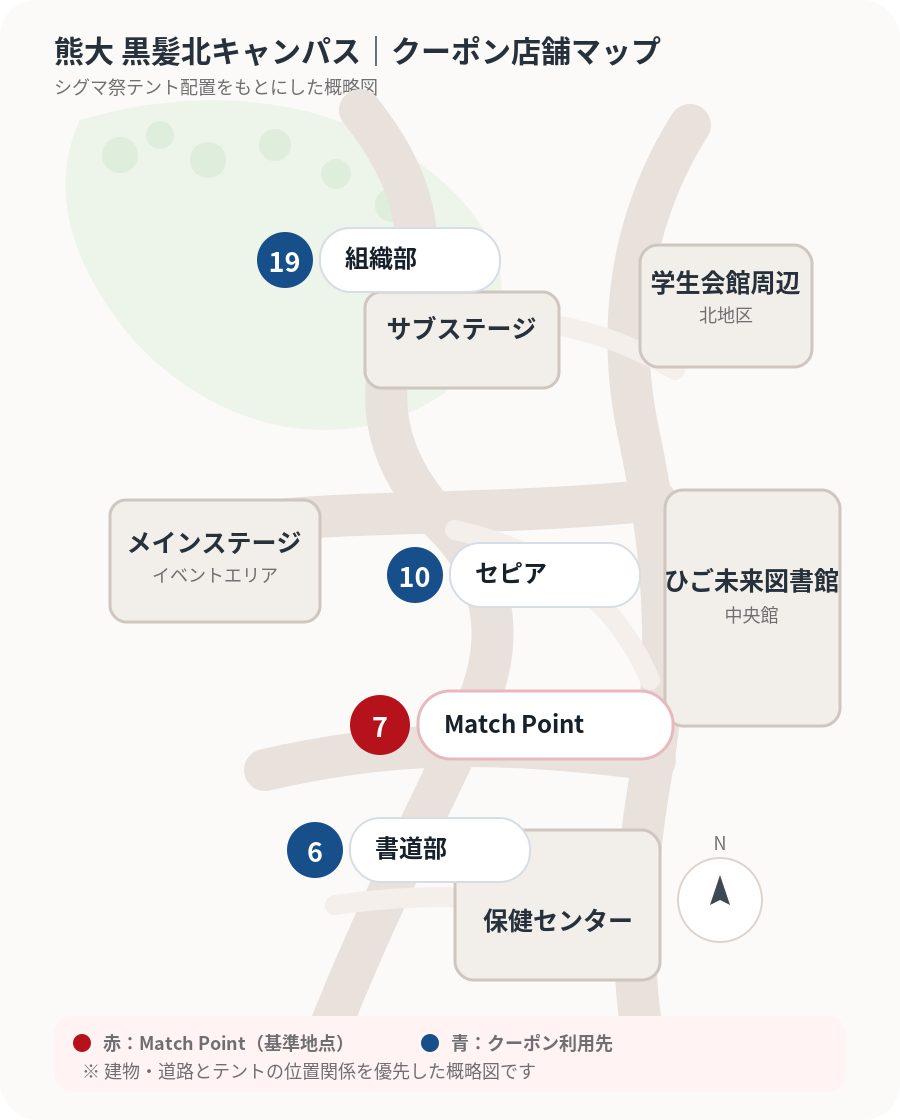
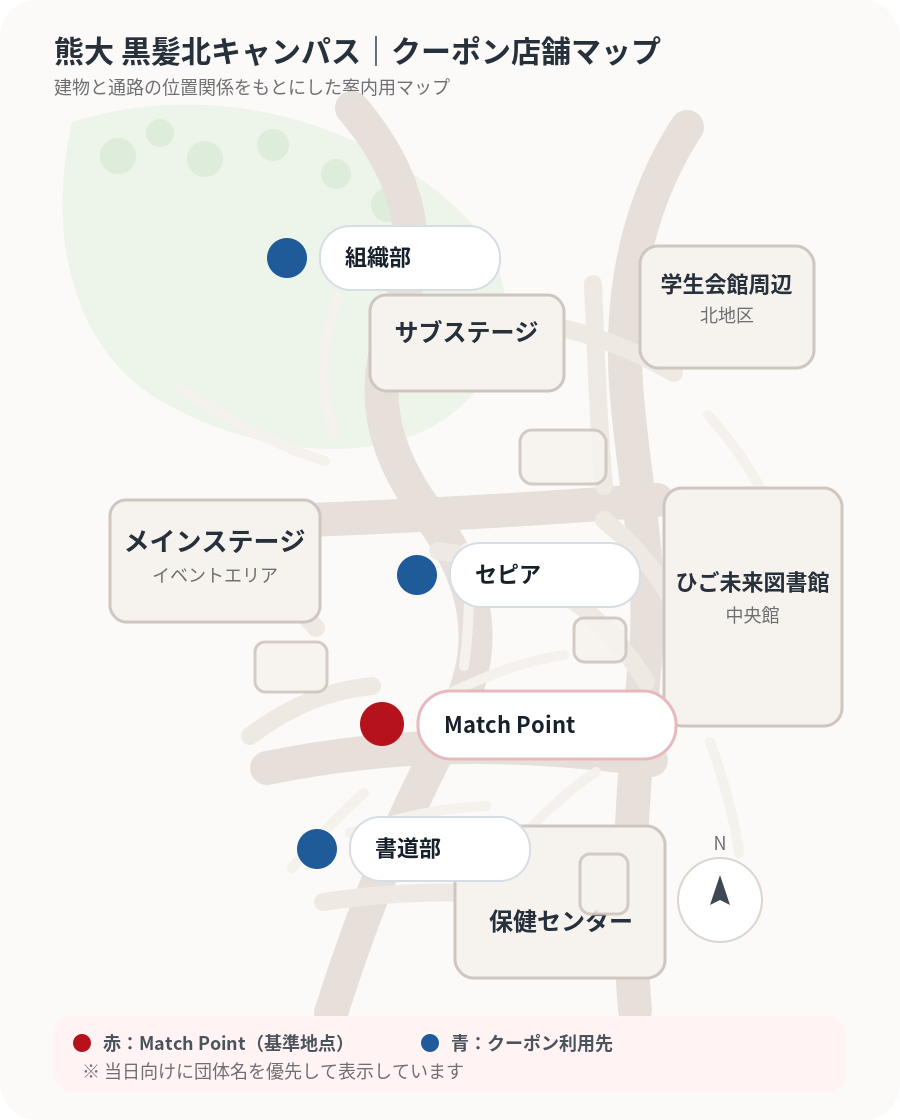
Add files via upload

diff --git a/claim.html b/claim.html
@@ -190,10 +190,10 @@ function buildMapPartners(coupons){
   return out;
 }
 function mapLaunchHtml(){
-  return `<div class="card"><div class="map-launch-title">🗺 クーポン店舗マップ</div><div class="map-launch-text">熊大黒髪北キャンパスの建物配置とシグマ祭テント配置をもとに、クーポン利用先だけを載せた専用マップです。</div><button onclick="openCouponMap()">店舗マップを見る</button></div>`;
+  return `<div class="card"><div class="map-launch-title">🗺 クーポン店舗マップ</div><div class="map-launch-text">熊大黒髪北キャンパスをもとに、クーポン利用先だけを見やすくまとめた案内マップです。</div><button onclick="openCouponMap()">店舗マップを見る</button></div>`;
 }
 function mapModalHtml(){
-  return `<div id="couponMapModal" class="map-modal" onclick="if(event.target===this)closeCouponMap()"><div class="map-sheet"><div class="map-sheet-head"><div><div class="map-sheet-title">クーポン店舗マップ</div><div class="map-sheet-sub">表示しているテント番号は 6・7・10・19 のみです。</div></div><button type="button" class="map-close" onclick="closeCouponMap()">閉じる</button></div><div class="illustrated-map-wrap"><div class="illustrated-map-stage"><img class="illustrated-map" src="./coupon-campus-illustrated.png" alt="熊本大学黒髪北キャンパスのクーポン店舗マップ"><div id="mapFocusRing" class="map-focus-ring" aria-hidden="true"></div></div></div></div></div>`;
+  return `<div id="couponMapModal" class="map-modal" onclick="if(event.target===this)closeCouponMap()"><div class="map-sheet"><div class="map-sheet-head"><div><div class="map-sheet-title">クーポン店舗マップ</div><div class="map-sheet-sub">建物と通路の位置関係をもとにした案内用の絵地図です。</div></div><button type="button" class="map-close" onclick="closeCouponMap()">閉じる</button></div><div class="illustrated-map-wrap"><div class="illustrated-map-stage"><img class="illustrated-map" src="./coupon-campus-illustrated.png" alt="熊本大学黒髪北キャンパスのクーポン店舗マップ"><div id="mapFocusRing" class="map-focus-ring" aria-hidden="true"></div></div></div></div></div>`;
 }
 function openCouponMapByName(encodedName){openCouponMap(decodeURIComponent(encodedName||""));}
 function openCouponMap(activeName=""){
@@ -257,7 +257,7 @@ async function partnerHtml(ticketKind){
             <div class="coupon-partner">発行元：${esc(c.partner_name)}</div>
             <div class="coupon-title">${esc(c.title)}</div>
             ${c.description?`<div class="coupon-description">${esc(c.description)}</div>`:""}
-            ${loc?`<div class="coupon-meta"><span class="coupon-spot">場所：テント ${loc.tent}</span></div><button type="button" class="coupon-map-btn" onclick="openCouponMapByName('${encodeURIComponent(c.partner_name)}')">地図で場所を見る</button>`:""}
+            ${loc?`<button type="button" class="coupon-map-btn" onclick="openCouponMapByName('${encodeURIComponent(c.partner_name)}')">地図で場所を見る</button>`:""}
             <div class="coupon-howto">利用時に${esc(ticketKind)}のQRコードを提携先スタッフへ提示してください。</div>
             ${c.instagram_url?`<a class="coupon-instagram" href="${esc(c.instagram_url)}" target="_blank" rel="noopener">Instagramを見る</a>`:""}
           </article>

diff --git a/ticket.html b/ticket.html
@@ -190,10 +190,10 @@ function buildMapPartners(coupons){
   return out;
 }
 function mapLaunchHtml(){
-  return `<div class="card"><div class="map-launch-title">🗺 クーポン店舗マップ</div><div class="map-launch-text">熊大黒髪北キャンパスの建物配置とシグマ祭テント配置をもとに、クーポン利用先だけを載せた専用マップです。</div><button onclick="openCouponMap()">店舗マップを見る</button></div>`;
+  return `<div class="card"><div class="map-launch-title">🗺 クーポン店舗マップ</div><div class="map-launch-text">熊大黒髪北キャンパスをもとに、クーポン利用先だけを見やすくまとめた案内マップです。</div><button onclick="openCouponMap()">店舗マップを見る</button></div>`;
 }
 function mapModalHtml(){
-  return `<div id="couponMapModal" class="map-modal" onclick="if(event.target===this)closeCouponMap()"><div class="map-sheet"><div class="map-sheet-head"><div><div class="map-sheet-title">クーポン店舗マップ</div><div class="map-sheet-sub">表示しているテント番号は 6・7・10・19 のみです。</div></div><button type="button" class="map-close" onclick="closeCouponMap()">閉じる</button></div><div class="illustrated-map-wrap"><div class="illustrated-map-stage"><img class="illustrated-map" src="./coupon-campus-illustrated.png" alt="熊本大学黒髪北キャンパスのクーポン店舗マップ"><div id="mapFocusRing" class="map-focus-ring" aria-hidden="true"></div></div></div></div></div>`;
+  return `<div id="couponMapModal" class="map-modal" onclick="if(event.target===this)closeCouponMap()"><div class="map-sheet"><div class="map-sheet-head"><div><div class="map-sheet-title">クーポン店舗マップ</div><div class="map-sheet-sub">建物と通路の位置関係をもとにした案内用の絵地図です。</div></div><button type="button" class="map-close" onclick="closeCouponMap()">閉じる</button></div><div class="illustrated-map-wrap"><div class="illustrated-map-stage"><img class="illustrated-map" src="./coupon-campus-illustrated.png" alt="熊本大学黒髪北キャンパスのクーポン店舗マップ"><div id="mapFocusRing" class="map-focus-ring" aria-hidden="true"></div></div></div></div></div>`;
 }
 function openCouponMapByName(encodedName){openCouponMap(decodeURIComponent(encodedName||""));}
 function openCouponMap(activeName=""){
@@ -257,7 +257,7 @@ async function partnerHtml(ticketKind){
             <div class="coupon-partner">発行元：${esc(c.partner_name)}</div>
             <div class="coupon-title">${esc(c.title)}</div>
             ${c.description?`<div class="coupon-description">${esc(c.description)}</div>`:""}
-            ${loc?`<div class="coupon-meta"><span class="coupon-spot">場所：テント ${loc.tent}</span></div><button type="button" class="coupon-map-btn" onclick="openCouponMapByName('${encodeURIComponent(c.partner_name)}')">地図で場所を見る</button>`:""}
+            ${loc?`<button type="button" class="coupon-map-btn" onclick="openCouponMapByName('${encodeURIComponent(c.partner_name)}')">地図で場所を見る</button>`:""}
             <div class="coupon-howto">利用時に${esc(ticketKind)}のQRコードを提携先スタッフへ提示してください。</div>
             ${c.instagram_url?`<a class="coupon-instagram" href="${esc(c.instagram_url)}" target="_blank" rel="noopener">Instagramを見る</a>`:""}
           </article>

diff --git a/sample-ticket.html b/sample-ticket.html
@@ -147,10 +147,10 @@ function buildMapPartners(coupons){
   return out;
 }
 function mapLaunchHtml(){
-  return `<div class="card"><div class="map-launch-title">🗺 クーポン店舗マップ</div><div class="map-launch-text">熊大黒髪北キャンパスの建物配置とシグマ祭テント配置をもとに、クーポン利用先だけを載せた専用マップです。</div><button onclick="openCouponMap()">店舗マップを見る</button></div>`;
+  return `<div class="card"><div class="map-launch-title">🗺 クーポン店舗マップ</div><div class="map-launch-text">熊大黒髪北キャンパスをもとに、クーポン利用先だけを見やすくまとめた案内マップです。</div><button onclick="openCouponMap()">店舗マップを見る</button></div>`;
 }
 function mapModalHtml(){
-  return `<div id="couponMapModal" class="map-modal" onclick="if(event.target===this)closeCouponMap()"><div class="map-sheet"><div class="map-sheet-head"><div><div class="map-sheet-title">クーポン店舗マップ</div><div class="map-sheet-sub">表示しているテント番号は 6・7・10・19 のみです。</div></div><button type="button" class="map-close" onclick="closeCouponMap()">閉じる</button></div><div class="illustrated-map-wrap"><div class="illustrated-map-stage"><img class="illustrated-map" src="./coupon-campus-illustrated.png" alt="熊本大学黒髪北キャンパスのクーポン店舗マップ"><div id="mapFocusRing" class="map-focus-ring" aria-hidden="true"></div></div></div></div></div>`;
+  return `<div id="couponMapModal" class="map-modal" onclick="if(event.target===this)closeCouponMap()"><div class="map-sheet"><div class="map-sheet-head"><div><div class="map-sheet-title">クーポン店舗マップ</div><div class="map-sheet-sub">建物と通路の位置関係をもとにした案内用の絵地図です。</div></div><button type="button" class="map-close" onclick="closeCouponMap()">閉じる</button></div><div class="illustrated-map-wrap"><div class="illustrated-map-stage"><img class="illustrated-map" src="./coupon-campus-illustrated.png" alt="熊本大学黒髪北キャンパスのクーポン店舗マップ"><div id="mapFocusRing" class="map-focus-ring" aria-hidden="true"></div></div></div></div></div>`;
 }
 function openCouponMapByName(encodedName){openCouponMap(decodeURIComponent(encodedName||""));}
 function openCouponMap(activeName=""){
@@ -213,7 +213,7 @@ async function partnerHtml(ticketKind){
             <div class="coupon-partner">発行元：${esc(c.partner_name)}</div>
             <div class="coupon-title">${esc(c.title)}</div>
             ${c.description?`<div class="coupon-description">${esc(c.description)}</div>`:""}
-            ${loc?`<div class="coupon-meta"><span class="coupon-spot">場所：テント ${loc.tent}</span></div><button type="button" class="coupon-map-btn" onclick="openCouponMapByName('${encodeURIComponent(c.partner_name)}')">地図で場所を見る</button>`:""}
+            ${loc?`<button type="button" class="coupon-map-btn" onclick="openCouponMapByName('${encodeURIComponent(c.partner_name)}')">地図で場所を見る</button>`:""}
             <div class="coupon-howto">※見本表示です。本物の前売り券QRを提示すると利用できます。</div>
             ${c.instagram_url?`<a class="coupon-instagram" href="${esc(c.instagram_url)}" target="_blank" rel="noopener">Instagramを見る</a>`:""}
           </article>

diff --git a/benefits.html b/benefits.html
@@ -78,10 +78,10 @@ function buildMapPartners(coupons){
   return out;
 }
 function mapLaunchHtml(){
-  return `<div class="card"><div class="map-launch-title">🗺 クーポン店舗マップ</div><div class="map-launch-text">熊大黒髪北キャンパスの建物配置とシグマ祭テント配置をもとに、クーポン利用先だけを載せた専用マップです。</div><button onclick="openCouponMap()">店舗マップを見る</button></div>`;
+  return `<div class="card"><div class="map-launch-title">🗺 クーポン店舗マップ</div><div class="map-launch-text">熊大黒髪北キャンパスをもとに、クーポン利用先だけを見やすくまとめた案内マップです。</div><button onclick="openCouponMap()">店舗マップを見る</button></div>`;
 }
 function mapModalHtml(){
-  return `<div id="couponMapModal" class="map-modal" onclick="if(event.target===this)closeCouponMap()"><div class="map-sheet"><div class="map-sheet-head"><div><div class="map-sheet-title">クーポン店舗マップ</div><div class="map-sheet-sub">表示しているテント番号は 6・7・10・19 のみです。</div></div><button type="button" class="map-close" onclick="closeCouponMap()">閉じる</button></div><div class="illustrated-map-wrap"><div class="illustrated-map-stage"><img class="illustrated-map" src="./coupon-campus-illustrated.png" alt="熊本大学黒髪北キャンパスのクーポン店舗マップ"><div id="mapFocusRing" class="map-focus-ring" aria-hidden="true"></div></div></div></div></div>`;
+  return `<div id="couponMapModal" class="map-modal" onclick="if(event.target===this)closeCouponMap()"><div class="map-sheet"><div class="map-sheet-head"><div><div class="map-sheet-title">クーポン店舗マップ</div><div class="map-sheet-sub">建物と通路の位置関係をもとにした案内用の絵地図です。</div></div><button type="button" class="map-close" onclick="closeCouponMap()">閉じる</button></div><div class="illustrated-map-wrap"><div class="illustrated-map-stage"><img class="illustrated-map" src="./coupon-campus-illustrated.png" alt="熊本大学黒髪北キャンパスのクーポン店舗マップ"><div id="mapFocusRing" class="map-focus-ring" aria-hidden="true"></div></div></div></div></div>`;
 }
 function openCouponMapByName(encodedName){openCouponMap(decodeURIComponent(encodedName||""));}
 function openCouponMap(activeName=""){

diff --git a/service-worker.js b/service-worker.js
@@ -1,4 +1,4 @@
-const CACHE_NAME = "sigma-ticket-campus-illustrated-map-v23";
+const CACHE_NAME = "sigma-ticket-campus-illustrated-map-v25";
 const PRECACHE = [
   "./coupon-campus-illustrated.png"
 ];
